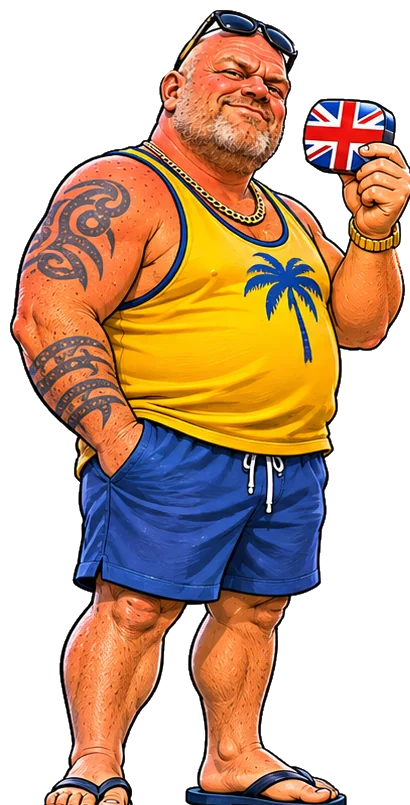
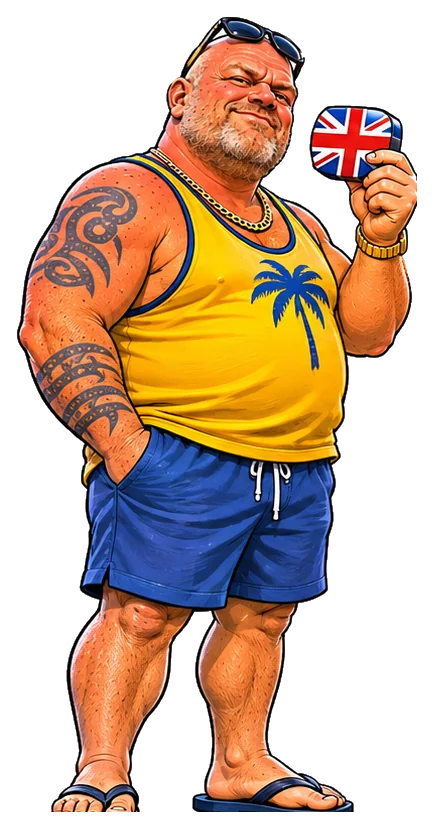
Put the full Chapter 1 cast on screen and free Sharon’s hands

diff --git a/chapter1.js b/chapter1.js
@@ -2,16 +2,16 @@
 const CHAPTER={
   id:"chapter1",
   steps:[
-    {t:"narr",scene:"landing",text:{m:"Sharon films Corfu coming into view. Dave sleeps through the landing. He's been awake since they left the UK, telling anyone who'll listen about the apartment buffet.",f:"Sharon finally gets a clear shot of Corfu out the plane window. Then Dave's snoring makes it onto the recording."}},
+    {t:"narr",scene:"landing",text:{m:"Sharon points out Corfu coming into view. Dave sleeps through the landing. He's been awake since they left the UK, telling anyone who'll listen about the apartment buffet.",f:"Sharon spots Corfu through the plane window. She nudges Dave to show him. He snores right through it."}},
     {t:"narr",scene:"baggage",text:{m:"The carousel makes one last turn. Dave's case appears. Two pairs of shorts, one shirt and enough van magnets to rebrand the entire airport.",f:"The carousel makes one last turn. Sharon grabs the case before Dave can put his back out. Again."}},
     {t:"narr",scene:"arrivals",text:"The rep points to the transfer coach. Dave eyes the queue and heads for the hire office. Sharon follows. Someone has to read the paperwork."},
-    {t:"narr",scene:"van",text:"Corfu Airport. 35°C. A white van sits outside the hire office. Dave booked it months ago and has brought the magnets to prove it.",face:"normal"},
+    {t:"narr",scene:"van",text:"Corfu Airport. 35°C. A white van sits outside the hire office. Dave booked it months ago and has brought the magnets to prove it."},
     {t:"q",legacyReward:true,kind:"sign",sign:"ΕΝΟΙΚΙΑΣΕΙΣ ΑΥΤΟΚΙΝΗΤΩΝ",prompt:"What does the sign say?",
       opts:[{en:"Car hire",ok:1},{en:"Car park"},{en:"Car wash"}],
       why:"ενοικιάσεις = rentals, αυτοκινήτων = of cars. You'll see this sign all over Corfu.",
-      badOptions:[{m:"Dave lines up the suitcase between two painted bays. Spyros asks if it needs a parking ticket.",f:"Sharon pays for parking on her phone. The closest vehicle is Dave’s suitcase."},{m:"Dave holds up the keys to his car back in England. Spyros offers him a very small sponge.",f:"Sharon asks if they do upholstery. Spyros points her to the van’s previous renter, who is still hoovering it."}],
+      badOptions:[{m:"Dave lines up the suitcase between two painted bays. Spyros asks if it needs a parking ticket.",f:"Sharon asks for a parking ticket. Spyros looks down at Dave’s suitcase and asks how long he’ll be staying."},{m:"Dave holds up the keys to his car back in England. Spyros offers him a very small sponge.",f:"Sharon asks if they do upholstery. Spyros points her to the van’s previous renter, who is still hoovering it."}],
       learn:["Ενοικιάσεις αυτοκινήτων","Car hire"]},
-    {t:"me",text:{m:"ALRIGHT MATE! I… WANT… A… VAN!",f:"HIYA, LUV! WE… WANT… A… VAN!"},face:"talking"},
+    {t:"me",text:{m:"ALRIGHT MATE! I… WANT… A… VAN!",f:"HIYA, LUV! WE… WANT… A… VAN!"}},
     {t:"local",gr:"Καλημέρα.",en:"Good morning."},
     {t:"q",legacyReward:true,kind:"reply",prompt:"Greet him back properly:",
       opts:[{gr:"Καλημέρα!",en:"Good morning!",ok:1},{gr:"Καληνύχτα!",en:"Good night!"},{gr:"Γεια μας!",en:"Cheers!"}],
@@ -30,7 +30,7 @@ const CHAPTER={
     {t:"q",legacyReward:true,kind:"meaning",gr:"Για πόσες μέρες;",prompt:"What is Spyros asking?",
       opts:[{en:"For how many days?",ok:1},{en:"How many people?"},{en:"How much money have you got?"}],
       why:"πόσες = how many, μέρες = days.",
-      badOptions:[{m:"Dave counts himself twice before Spyros taps the calendar.",f:"Sharon starts counting suitcases as passengers. Spyros pulls out the calendar."},{m:"Dave checks his wallet. Spyros points at the calendar, which is free.",f:"Sharon shields her banking app. Spyros points at his desk calendar."}],
+      badOptions:[{m:"Dave counts himself twice before Spyros taps the calendar.",f:"Sharon starts counting suitcases as passengers. Spyros pulls out the calendar."},{m:"Dave checks his wallet. Spyros points at the calendar, which is free.",f:"Sharon keeps her purse firmly shut. Spyros points at his desk calendar."}],
       learn:["Για πόσες μέρες;","For how many days?"]},
     {t:"q",legacyReward:true,kind:"reply",prompt:"Tell him you need it until September:",
       opts:[{gr:"Μέχρι τον Σεπτέμβριο.",en:"Until September.",ok:1},{gr:"Στις τέσσερις.",en:"At four o'clock."},{gr:"Τέσσερα ευρώ.",en:"Four euros."}],
@@ -40,12 +40,12 @@ const CHAPTER={
     {t:"q",kind:"reply",prompt:"Ask what the van costs per month.",
       opts:[{gr:"Πόσο κοστίζει τον μήνα;",en:"How much does it cost per month?",ok:1},{gr:"Πόσες μέρες τον μήνα;",en:"How many days per month?"},{gr:"Πού είναι το βαν;",en:"Where is the van?"}],
       why:"Πόσο κοστίζει; = How much does it cost? Τον μήνα = per month.",
-      badOptions:[{m:"Spyros turns his calendar to May. Dave asks if the extra day is included.",f:"Spyros checks his calendar. Sharon taps her banking app to get him back on the subject."},{m:"Spyros points outside. Dave is half out the door before he remembers the price.",f:"Sharon gets a view of the van. None of its dents has a price tag."}],
+      badOptions:[{m:"Spyros turns his calendar to May. Dave asks if the extra day is included.",f:"Spyros checks his calendar. Sharon taps the empty price box to get him back on the subject."},{m:"Spyros points outside. Dave is half out the door before he remembers the price.",f:"Sharon gets a view of the van. None of its dents has a price tag."}],
       learn:["Πόσο κοστίζει τον μήνα;","How much does it cost per month?"]},
     {t:"q",legacyReward:true,kind:"meaning",gr:"Εξακόσια ευρώ τον μήνα.",prompt:"How much is it?",
       opts:[{en:"€600 a month",ok:1},{en:"€60 a month"},{en:"€600 a week"}],
       why:"εξακόσια = six hundred, τον μήνα = per month.",
-      good:"Correct… and {P} is not happy about it.",faceGood:"shocked",
+      good:"Correct… and {P} is not happy about it.",
       badOptions:[{m:"Dave starts counting out three twenties. Spyros slides one extra zero across the desk.",f:"Sharon almost tells Dave he’s found a bargain. She stops just in time."},{m:"Dave starts calculating whether it’s cheaper to buy the van. Spyros taps the monthly column.",f:"Sharon starts dividing the bill by four. Spyros quietly moves her calculator off the weekly column."}],
       learn:["Τον μήνα","Per month"]},
     {t:"local",gr:"Το δίπλωμα και το διαβατήριο, παρακαλώ.",en:"Your driving licence and passport, please."},
@@ -62,13 +62,13 @@ const CHAPTER={
       why:{m:"έτοιμος is the man's form. Sharon would say έτοιμη.",f:"έτοιμη is the woman's form. Dave would say έτοιμος."},
       badOptions:[{m:"Spyros holds the keys out to Sharon. Dave puts his hand up like he’s back at school.",f:"Spyros holds the keys out to Dave. Sharon intercepts them with one eyebrow."},{m:"Spyros offers Dave the chair. It’s the first thing Dave’s negotiated successfully all morning.",f:"Spyros points Sharon to a chair. She hands Dave the cases and takes the offer."}],
       learn:[{m:"Είμαι έτοιμος",f:"Είμαι έτοιμη"},"I'm ready"]},
-    {t:"narr",text:"{P} slaps two Union Jack magnets on the van doors.",face:"proud"},
+    {t:"narr",text:"{P} slaps two Union Jack magnets on the van doors."},
     {t:"q",legacyReward:true,kind:"meaning",gr:"Προσέξτε το βαν, σας παρακαλώ!",prompt:"What did Spyros just say?",
       opts:[{en:"Please be careful with the van!",ok:1},{en:"Please bring it back with a full tank!"},{en:"Please park it over there!"}],
       why:"Προσέξτε = be careful, watch out. On signs you'll see ΠΡΟΣΟΧΗ (caution).",
-      badOptions:[{m:"Dave asks where the petrol cap is. Spyros points to a dent he hasn’t marked yet.",f:"Sharon opens the petrol app. Spyros points instead to the wing mirror, which Dave just folded backwards."},{m:"Dave reaches for reverse. Spyros takes two large steps back.",f:"Sharon points Dave into a bay. Spyros retrieves the office sandwich board before Dave can park on it."}],
+      badOptions:[{m:"Dave asks where the petrol cap is. Spyros points to a dent he hasn’t marked yet.",f:"Sharon asks about petrol. Spyros points to the wing mirror, which Dave just folded backwards."},{m:"Dave reaches for reverse. Spyros takes two large steps back.",f:"Sharon points Dave into a bay. Spyros retrieves the office sandwich board before Dave can park on it."}],
       learn:["Προσέξτε!","Be careful!"]},
-    {t:"me",text:{m:"Don't worry, Spyros mate. I've been driving vans for thirty years.",f:"Don't worry, luv. Dave's been driving vans for thirty years."},face:"talking"},
+    {t:"me",text:{m:"Don't worry, Spyros mate. I've been driving vans for thirty years.",f:"Don't worry, luv. Dave's been driving vans for thirty years."}},
     {t:"narr",scene:"apartment",text:"They pull up in Sidari. Kyria Eleni has the keys. Kyrios Spyros has an inventory. Dave has a beach towel already tucked into his collar."},
     {t:"local",speaker:"Kyria Eleni",gr:"Καλώς ήρθατε! Πώς μπορώ να σας βοηθήσω;",en:"Welcome! How can I help you?"},
     {t:"q",kind:"reply",prompt:"Ask where the apartment is.",
@@ -98,9 +98,9 @@ const CHAPTER={
     {t:"q",kind:"reply",prompt:"Ask how much the bottle costs.",
       opts:[{gr:"Πόσο κάνει;",en:"How much is it?",ok:1},{gr:"Τι ώρα είναι;",en:"What time is it?"},{gr:"Μπορώ να πληρώσω με κάρτα;",en:"Can I pay by card?"}],
       why:"Πόσο κάνει; asks the price of one item. Τι ώρα είναι; asks the time. Μπορώ να πληρώσω με κάρτα; asks if you can pay by card.",
-      badOptions:[{m:"Spyros checks the clock. Dave briefly thinks the water costs eleven fifty.",f:"Spyros tells Sharon the time. Her phone has been showing UK time all morning."},{m:"Spyros wakes up the card reader. Dave still wants to know what he’s agreeing to.",f:"Spyros holds up the card reader. Sharon reaches for her phone, then remembers the small matter of the price."}],
+      badOptions:[{m:"Spyros checks the clock. Dave briefly thinks the water costs eleven fifty.",f:"Spyros tells Sharon the time. She’s been two hours early for everything since they landed."},{m:"Spyros wakes up the card reader. Dave still wants to know what he’s agreeing to.",f:"Spyros holds up the card reader. Sharon reaches for her card, then remembers the small matter of the price."}],
       learn:["Πόσο κάνει;","How much is it?"]},
     {t:"local",speaker:"Fat Spyros",gr:"Ογδόντα λεπτά.",en:"Eighty cents."},
-    {t:"narr",scene:"apartment",text:{m:"Back at the apartment, Eleni brings figs. Dave puts them on a plate and calls it the opening of the buffet. Sharon points out that he’s doing the washing up.",f:"Eleni brings figs. Sharon cracks open the water and puts the phone down. Dave asks when the buffet opens. “Soon as you learn to cook, luv.”"},face:"proud"}
+    {t:"narr",scene:"apartment",text:{m:"Back at the apartment, Eleni brings figs. Dave puts them on a plate and calls it the opening of the buffet. Sharon points out that he’s doing the washing up.",f:"Eleni brings figs. Sharon cracks open the water and takes the first fig. Dave asks when the buffet opens. “Soon as you learn to cook, luv.”"}}
   ]
 };

diff --git a/index.html b/index.html
@@ -56,14 +56,10 @@ button{font-family:inherit;cursor:pointer}
 .scene{position:relative;flex:1;min-height:0;overflow:hidden}
 .bg{position:absolute;inset:0}
 .gsign{position:absolute;left:18%;right:18%;top:17%;padding:5px 6px;background:#fff;border:3px solid var(--blue);border-radius:6px;text-align:center;color:var(--blue);font-weight:900;font-size:clamp(12px,3.6vw,17px);letter-spacing:.5px;box-shadow:0 3px 0 rgba(0,0,0,.15)}
-.player,.local{position:absolute;bottom:0;transition:transform .25s}
-.player{left:-4%;width:60%;max-height:96%;object-fit:contain;object-position:bottom;filter:drop-shadow(0 0 6px rgba(0,0,0,.3))}
 .player.bump{animation:bump .35s}
 .player.shake{animation:shake .4s}
 @keyframes bump{50%{transform:translateY(-12px) scale(1.03)}}
 @keyframes shake{20%,60%{transform:translateX(-8px)}40%,80%{transform:translateX(8px)}}
-.local{right:3%;width:38%;bottom:6%;display:flex;flex-direction:column;align-items:center}
-.local .tag{margin-top:6px;background:var(--deep);color:#fff;font-weight:800;font-size:12px;padding:3px 9px;border-radius:10px;white-space:nowrap}
 
 .panel{position:relative;z-index:4;background:var(--paper);border-top:4px solid var(--deep);border-radius:20px 20px 0 0;padding:12px 14px calc(env(safe-area-inset-bottom) + 12px);max-height:62%;overflow-y:auto;box-shadow:0 -6px 16px rgba(0,0,0,.35)}
 .who{display:inline-block;background:var(--blue);color:#fff;font-weight:800;font-size:12px;padding:2px 10px;border-radius:10px;margin-bottom:6px}
@@ -101,7 +97,7 @@ button{font-family:inherit;cursor:pointer}
 #end{background:linear-gradient(#2893fc,#ffe2a8);overflow-y:auto}
 #end .wrap{padding:calc(env(safe-area-inset-top) + 20px) 16px calc(env(safe-area-inset-bottom) + 24px);text-align:center}
 #end h1{color:#fff;text-shadow:0 3px 0 var(--deep);margin:6px 0}
-#end .face{width:58%;max-width:260px}
+#end .face{width:48%;max-width:220px;max-height:290px;object-fit:contain}
 .score{font-size:18px;font-weight:800;color:var(--deep);margin:6px 0 14px}
 .learned{text-align:left;background:var(--paper);border:3px solid var(--deep);border-radius:16px;padding:10px 12px;margin-bottom:14px}
 .learned h3{margin:2px 0 8px;color:var(--deep)}
@@ -135,10 +131,11 @@ button{font-family:inherit;cursor:pointer}
 .top,.panel,.wrap,.sheet{padding-left:max(14px,env(safe-area-inset-left));padding-right:max(14px,env(safe-area-inset-right))}
 .bg{background:linear-gradient(#2893fc,#bfe3ff 60%,#e8c68a);background-size:cover;background-position:center 44%}
 .gsign{top:8px;left:7%;right:7%;font-size:clamp(12px,3.4vw,16px)}
-.player{left:0;width:55%;max-height:83%}
-.local{bottom:8px;max-height:82%;justify-content:flex-end}
-.local img{max-width:100%;min-height:0;object-fit:contain}
-.local .tag{white-space:normal;text-align:center}
+.cast{position:absolute;inset:42px 10px 8px;display:grid;grid-template-columns:1fr 1fr;gap:6px;pointer-events:none}
+.actor{min-width:0;min-height:0;display:grid;grid-template-rows:minmax(0,1fr) auto;gap:4px}
+.actor img{width:100%;height:100%;min-height:0;object-fit:contain;object-position:center bottom;filter:drop-shadow(0 3px 3px rgba(0,0,0,.28))}
+.actor img.mirror{transform:scaleX(-1)}
+.actor .tag{justify-self:center;text-align:center;background:var(--deep);color:#fff;font-weight:800;font-size:12px;padding:3px 9px;border-radius:10px}
 .panel{max-height:68%;flex-shrink:0;overscroll-behavior:contain;scroll-padding:8px}
 .opt,.btn,.tile,.say,.lr .say,.tog,.x,.reveal{min-height:44px}
 .say,.lr .say,.x{min-width:44px}
@@ -196,10 +193,15 @@ button{font-family:inherit;cursor:pointer}
     <div class="bg vanhire">
     </div>
     <div class="gsign" id="sceneSign"></div>
-    <img class="player" id="player" alt="">
-    <div class="local" id="local">
-      <img id="localPortrait" alt="" hidden>
-      <div class="tag" id="localName"></div>
+    <div class="cast" id="cast" hidden>
+      <div class="actor">
+        <img class="player" id="player" alt="">
+        <div class="tag" id="playerName"></div>
+      </div>
+      <div class="actor">
+        <img id="localFigure" alt="">
+        <div class="tag" id="localName"></div>
+      </div>
     </div>
   </div>
   <div class="panel" id="panel" tabindex="-1"></div>
@@ -323,29 +325,25 @@ const SCENES={
   kitchen:{name:"The kitchen", art:"bg_apartment_kitchen", local:"Kyria Eleni"},
   market:{name:"The mini-market", art:"bg_minimarket", local:"Fat Spyros"}
 };
-const PORTRAITS={
-  "Spyros Rent-a-Van":["spyros_van_normal","spyros_van_proud","spyros_van_confused"],
-  "Kyria Eleni":["eleni_normal","eleni_pleased","eleni_exasperated"],
-  "Kyrios Spyros":["kyrios_spyros_normal","kyrios_spyros_explaining","kyrios_spyros_stern"],
-  "Fat Spyros":["fat_spyros_normal","fat_spyros_laughing","fat_spyros_fed_up"]
+const LOCAL_FIGURES={
+  "Spyros Rent-a-Van":"spyros_van_full",
+  "Kyria Eleni":"eleni_full",
+  "Kyrios Spyros":"kyrios_spyros_full",
+  "Fat Spyros":"fat_spyros_full"
 };
 let run, runKey, idx, speaker;
 const steps=CHAPTER.steps;
 const qTotal=steps.filter(s=>s.t==="q"||s.t==="build").length;
 const player=$("#player"), panel=$("#panel");
-const portraitPath=f=>`assets/${S.c==="f"?"sharon":"dave"}_${f}.webp`;
-function face(f,anim){
-  player.src=portraitPath(f);
-  if(anim){player.classList.remove("bump","shake");void player.offsetWidth;player.classList.add(anim)}
+const playerPath=()=>`assets/${S.c==="f"?"sharon":"dave"}_full.webp`;
+function react(animation){
+  player.classList.remove("bump","shake");
+  if(animation){void player.offsetWidth;player.classList.add(animation)}
 }
 function artPath(name){return name && GAME_ART.includes(name) ? `assets/${name}.webp` : ""}
-function mood(state=0){
-  const src=artPath(PORTRAITS[speaker]?.[state]) || artPath(PORTRAITS[speaker]?.[0]);
-  const portrait=$("#localPortrait");
-  if(src) portrait.src=src;
-  portrait.hidden=!src;
-}
 function startLesson(){
+  player.src=playerPath();
+  $("#playerName").textContent=NAME();
   runKey=`${CHAPTER.id}-${S.c}`;
   const saved=S.runs[runKey];
   run=saved && Number.isInteger(saved.idx) && steps[saved.idx] && saved.answers
@@ -384,22 +382,26 @@ function render(){
   $(".bg").style.backgroundImage=art ? `url("${art}")` : "";
   $("#scene").dataset.place=sceneKey;
   $("#sceneSign").textContent=scene.name;
-  $("#localName").textContent=speaker||"";
-  $("#local").hidden=!speaker;
-  player.hidden=!!art&&!scene.local;
-  mood();
+  $("#cast").hidden=!speaker;
+  if(speaker){
+    const localFigure=$("#localFigure");
+    const src=artPath(LOCAL_FIGURES[speaker]);
+    if(localFigure.getAttribute("src")!==src)localFigure.src=src;
+    localFigure.classList.toggle("mirror",speaker!=="Spyros Rent-a-Van");
+    $("#localName").textContent=speaker;
+  }
+  react();
   updateTop();
   panel.replaceChildren();
   panel.scrollTop=0;
   if(st.t==="narr"||st.t==="me"){
-    face(st.face||"normal");
+    if(st.t==="me")react("bump");
     panel.append(el("div","who",st.t==="me"?NAME():"Corfu"),el("div","line",fill(st.text)));
     if(st.scene==="arrivals")panel.append(el("div","en","Arrivals · Baggage · Exit"));
     panel.append(nextBtn());
     return;
   }
   if(st.t==="local"){
-    face("normal");
     const en=el("div","en",S.english?st.en:"");
     const r=el("button","reveal","Show English");
     r.onclick=()=>{en.textContent=st.en;r.remove()};
@@ -413,7 +415,6 @@ function render(){
     feedback(st,true);
     return;
   }
-  face("normal");
   if(st.t==="build"){renderBuild(st);return}
   if(st.kind==="meaning"&&st.gr)panel.append(el("div","who",speaker),greekBlock(st.gr));
   if(st.kind==="sign")panel.append(el("div","bigsign",st.sign));
@@ -430,13 +431,13 @@ function render(){
       b.classList.add(o.ok?"right":"wrong");
       if(gr)speak(gr);
       const wrong=st.opts.filter(option=>!option.ok).indexOf(o);
-      feedback(st,!!o.ok,st.badOptions?.[wrong],wrong,o);
+      feedback(st,!!o.ok,st.badOptions?.[wrong],o);
     };
     box.append(b);
   });
   panel.append(box);
 }
-function feedback(st,ok,joke,wrong=0,choice){
+function feedback(st,ok,joke,choice){
   const previous=run.answers[idx];
   if(ok){
     if(previous!=="first"&&previous!=="retried")run.answers[idx]=previous==="missed"?"retried":"first";
@@ -448,8 +449,7 @@ function feedback(st,ok,joke,wrong=0,choice){
     run.answers[idx]="missed";
   }
   save();
-  face(ok?st.faceGood||"proud":wrong===1?"confused":"cringe",ok?"bump":"shake");
-  mood(ok?1:2);
+  react(ok?"bump":"shake");
   const fb=el("div","fb "+(ok?"good":"bad"));
   fb.setAttribute("role","status");
   if(!ok){
@@ -537,7 +537,7 @@ function finish(){
   delete S.runs[runKey];
   save();
   const w=$("#endWrap"), f=el("img","face");
-  f.alt="";f.src=portraitPath("proud");
+  f.alt="";f.src=playerPath();
   w.replaceChildren(el("h1",null,"Chapter 1 complete"),f,
     el("div","line","Van parked. Shopping done. The buffet is officially self-service."),
     el("div","score",`${score} / ${qTotal} correct first try · +${earned} figs · ${S.figs} total`),

diff --git a/sw.js b/sw.js
@@ -1,16 +1,12 @@
 importScripts("assets/chapter1-art.js");
 
 const PREFIX = "sidari-quest-";
-const CACHE = PREFIX + "playtest-v2";
+const CACHE = PREFIX + "playtest-v3";
 const SHELL = [
   "./", "index.html", "manifest.json", "chapter1.js", "progress.js",
   "icon-180.png", "icon-192.png", "icon-512.png", "assets/chapter1-art.js"
 ];
-const players = ["dave", "sharon"].flatMap(character =>
-  ["full", "normal", "proud", "confused", "cringe", "fuming", "shocked", "talking"]
-    .map(mood => character + "_" + mood)
-);
-const art = [...new Set(["title_bg", "tagline", "logo", ...players, ...GAME_ART])]
+const art = [...new Set(["title_bg", "tagline", "logo", ...GAME_ART])]
   .map(name => "assets/" + name + ".webp");
 
 self.addEventListener("install", event => {

diff --git a/assets/chapter1-art.js b/assets/chapter1-art.js
@@ -1,2 +1,2 @@
 /* Generated by scripts/import-chapter1-art.py. */
-const GAME_ART = ["bg_apartment_kitchen", "bg_apartment_outside", "bg_minimarket", "bg_van_hire", "fig", "intro_1_landing", "intro_2_baggage", "intro_3_arrivals", "sharon_shocked", "spyros_van_normal"];
+const GAME_ART = ["bg_apartment_kitchen", "bg_apartment_outside", "bg_minimarket", "bg_van_hire", "dave_full", "eleni_full", "fat_spyros_full", "fig", "intro_1_landing", "intro_2_baggage", "intro_3_arrivals", "kyrios_spyros_full", "sharon_full", "sharon_shocked", "spyros_van_full", "spyros_van_normal", "title_bg"];

diff --git a/scripts/import-chapter1-art.py b/scripts/import-chapter1-art.py
@@ -1,7 +1,7 @@
 """Import approved PNG masters already placed in art/raw. Requires Pillow."""
 import json
 from pathlib import Path
-from PIL import Image
+from PIL import Image, ImageOps
 
 ROOT = Path(__file__).resolve().parents[1]
 RAW = ROOT / "art/raw"
@@ -34,9 +34,26 @@ def convert(path, name, size=None, transparent=False, bounds=(1024, 1536)):
         available.append(name)
 
 
+def convert_full_body(path, name):
+    if not path.is_file():
+        return
+    with Image.open(path) as master:
+        image = master.convert("RGBA")
+        alpha = image.getchannel("A").point([0 if n < 8 else 255 if n > 249 else n for n in range(256)])
+        if alpha.getextrema() != (0, 255):
+            raise ValueError(f"{path}: needs transparent margins and an opaque figure")
+        image.putalpha(alpha)
+        image = ImageOps.expand(image.crop(alpha.getbbox()), border=16)
+        image.thumbnail((620, 1024), Image.Resampling.LANCZOS)
+        image.save(ASSETS / f"{name}.webp", quality=85, method=6)
+        available.append(name)
+
+
 for folder, names in (("backgrounds", BACKGROUNDS), ("intro", INTRO)):
     for name in sorted(names):
-        convert(RAW / folder / f"{name}.png", name, (1024, 1536), bounds=(840, 1260))
+        updated = RAW / "approved" / folder / f"{name}.png"
+        path = updated if updated.is_file() else RAW / folder / f"{name}.png"
+        convert(path, name, (1024, 1536), bounds=(840, 1260))
 
 # Keep the original undersized sheets and crops in their original folders.
 approved = RAW / "approved"
@@ -44,14 +61,18 @@ for character, moods in LOCALS.items():
     for mood in moods:
         name = f"{character}_{mood}"
         convert(approved / "locals" / f"{name}.png", name, (1024, 1024), True, (640, 640))
+    name = f"{character}_full"
+    convert_full_body(approved / "locals" / f"{name}.png", name)
 
 for character in ("dave", "sharon"):
     for mood in EXPRESSIONS:
         name = f"{character}_{mood}"
         convert(approved / "characters" / f"{name}.png", name, (1024, 1024), True, (640, 640))
     name = f"{character}_full"
-    convert(approved / "characters" / f"{name}.png", name, transparent=True, bounds=(520, 1000))
+    path = approved / "characters" / f"{name}.png"
+    convert_full_body(path if path.is_file() else RAW / "characters" / path.name, name)
 
+convert(approved / "title" / "title_background.png", "title_bg", (1024, 1536))
 convert(RAW / "extras/fig.png", "fig", transparent=True, bounds=(96, 96))
 icon = RAW / "extras/icon.png"
 if icon.is_file():

diff --git a/tests/playtest.py b/tests/playtest.py
@@ -24,10 +24,31 @@ def play(page, character, retry=False, resume=False):
         page.locator(f'.card[data-c="{character}"]').click()
         page.locator("#bGo").click()
     tested_retry = False
+    seen_locals = set()
     if retry:
         assert page.evaluate("CHAPTER.steps.every(step => step.opts?.every(option => option.en) ?? true)")
     for position, step in enumerate(page.evaluate("CHAPTER.steps")):
         panel = page.locator("#panel")
+        if page.locator("#cast").is_visible():
+            local = page.locator("#localName").inner_text()
+            if local not in seen_locals:
+                seen_locals.add(local)
+                assert page.locator("#player").get_attribute("src") == (
+                    "assets/sharon_full.webp" if character == "f" else "assets/dave_full.webp"
+                )
+                for actor in ("#player", "#localFigure"):
+                    image = page.locator(actor)
+                    page.wait_for_function(
+                        "selector => { const img = document.querySelector(selector); return img.complete && img.naturalWidth > 0 }",
+                        arg=actor,
+                    )
+                    assert image.evaluate("img => img.naturalHeight > img.naturalWidth")
+                    stage = page.locator("#scene").bounding_box()
+                    bounds = image.bounding_box()
+                    assert stage and bounds
+                    assert stage["y"] <= bounds["y"] and bounds["height"] > 0
+                    assert bounds["y"] + bounds["height"] <= stage["y"] + stage["height"]
+
         if step["t"] == "q":
             correct = next(o for o in step["opts"] if o.get("ok"))
             if retry and not tested_retry and step.get("kind") == "reply":
@@ -70,6 +91,7 @@ def play(page, character, retry=False, resume=False):
             assert panel.locator(".fb.good").is_visible()
         panel.get_by_role("button", name="Continue").click()
     assert page.get_by_role("heading", name="Chapter 1 complete").is_visible()
+    assert seen_locals == {"Spyros Rent-a-Van", "Kyria Eleni", "Kyrios Spyros", "Fat Spyros"}
 
 
 def check(browser_type, base, server, executable=None):

diff --git a/docs/CHAPTER1_ART_PRODUCTION.md b/docs/CHAPTER1_ART_PRODUCTION.md
@@ -2,17 +2,25 @@
 
 The approved [title reference](../art/reference/style_reference_title_screen.png) and [locals sheet](../art/reference/locals_approved_designs_sheet.png) govern character identity and style. Follow the [art brief](ART_BRIEF_CHAPTER1.txt) for compositions and the [asset status](ASSET_STATUS.md) for current local mood names.
 
-## Integrated and inspected
+## Full-body playtest
+
+Dialogue scenes now use six full-body sprites with room for shoes, hands and hair. Dave uses his existing approved standing design. Sharon has a hands-free standing pose. Spyros Rent-a-Van, Kyria Eleni, Kyrios Spyros and Fat Spyros use the faces and visible clothing from their approved references, extended to full length. Name tags sit below the sprites. Dialogue reactions use movement and text with the standing art.
+
+Original PNGs remain in place. New masters are under `art/raw/approved/`; run the importer to refresh the WebPs, remove nearly transparent edge noise, and add uniform padding. The title background and three playable airport panels use hands-free artwork for Sharon.
+
+## Artwork from the first playtest
 
 - Preserved the title background, logo, tagline, full-body character art, and the existing Dave and Sharon WebPs other than the repaired shocked portrait. The approved title master and reference files remain in the repository.
 - Generated and integrated the four location backgrounds from the brief. The office and apartment exterior use warm plaster, terracotta and faded green shutters, with blank signboards. The kitchen and market use a wider palette of tiled floors, olive greens and warm plaster. The in-game title supplies the Greek sign at the hire office.
-- Produced a transparent, left-facing Spyros Rent-a-Van normal portrait from the approved portrait reference. It retains his dark curls, moustache, plain navy polo, glasses at the collar and clipboard. The playtest uses it for all moods until the other two poses are available.
+- Produced a transparent, left-facing Spyros Rent-a-Van normal portrait from the approved portrait reference. It retains his dark curls, moustache, plain navy polo, glasses at the collar and clipboard. It remains available as source material for a future portrait layout.
 - Integrated three painted airport panels. Greek airport-sign labels and translations are rendered outside the artwork.
 - Redrew the shocked Sharon portrait from the approved crop with opaque figure alpha, a clear edge and no neighbouring image sliver. Preserved the original raw PNG. Full expression-set framing still needs a shared guide.
 - Added a transparent fig reward and the illustrated van app icon. The icon master exports to the 180, 192 and 512 px runtime PNG sizes.
 - Sharon’s original seven bust files are 640 × 640 with zero fully opaque pixels. Their existing WebPs restore opacity and are visibly usable, but that cleanup left crop and fringe issues. Dave’s 600 × 600 busts have alpha, though the source crop dimensions fall short of the 1024 px masters and contain defects. All twelve old local crops are fully opaque at roughly 430–446 × 245–275, with baked-in captions. Those crops remain as source references rather than game portraits.
 
-## Remaining production files
+## Optional portrait work for a future layout
+
+The files below belong to the earlier bust layout. The current full-body cast is complete.
 
 | Target | Direction and acceptance checks |
 | --- | --- |
